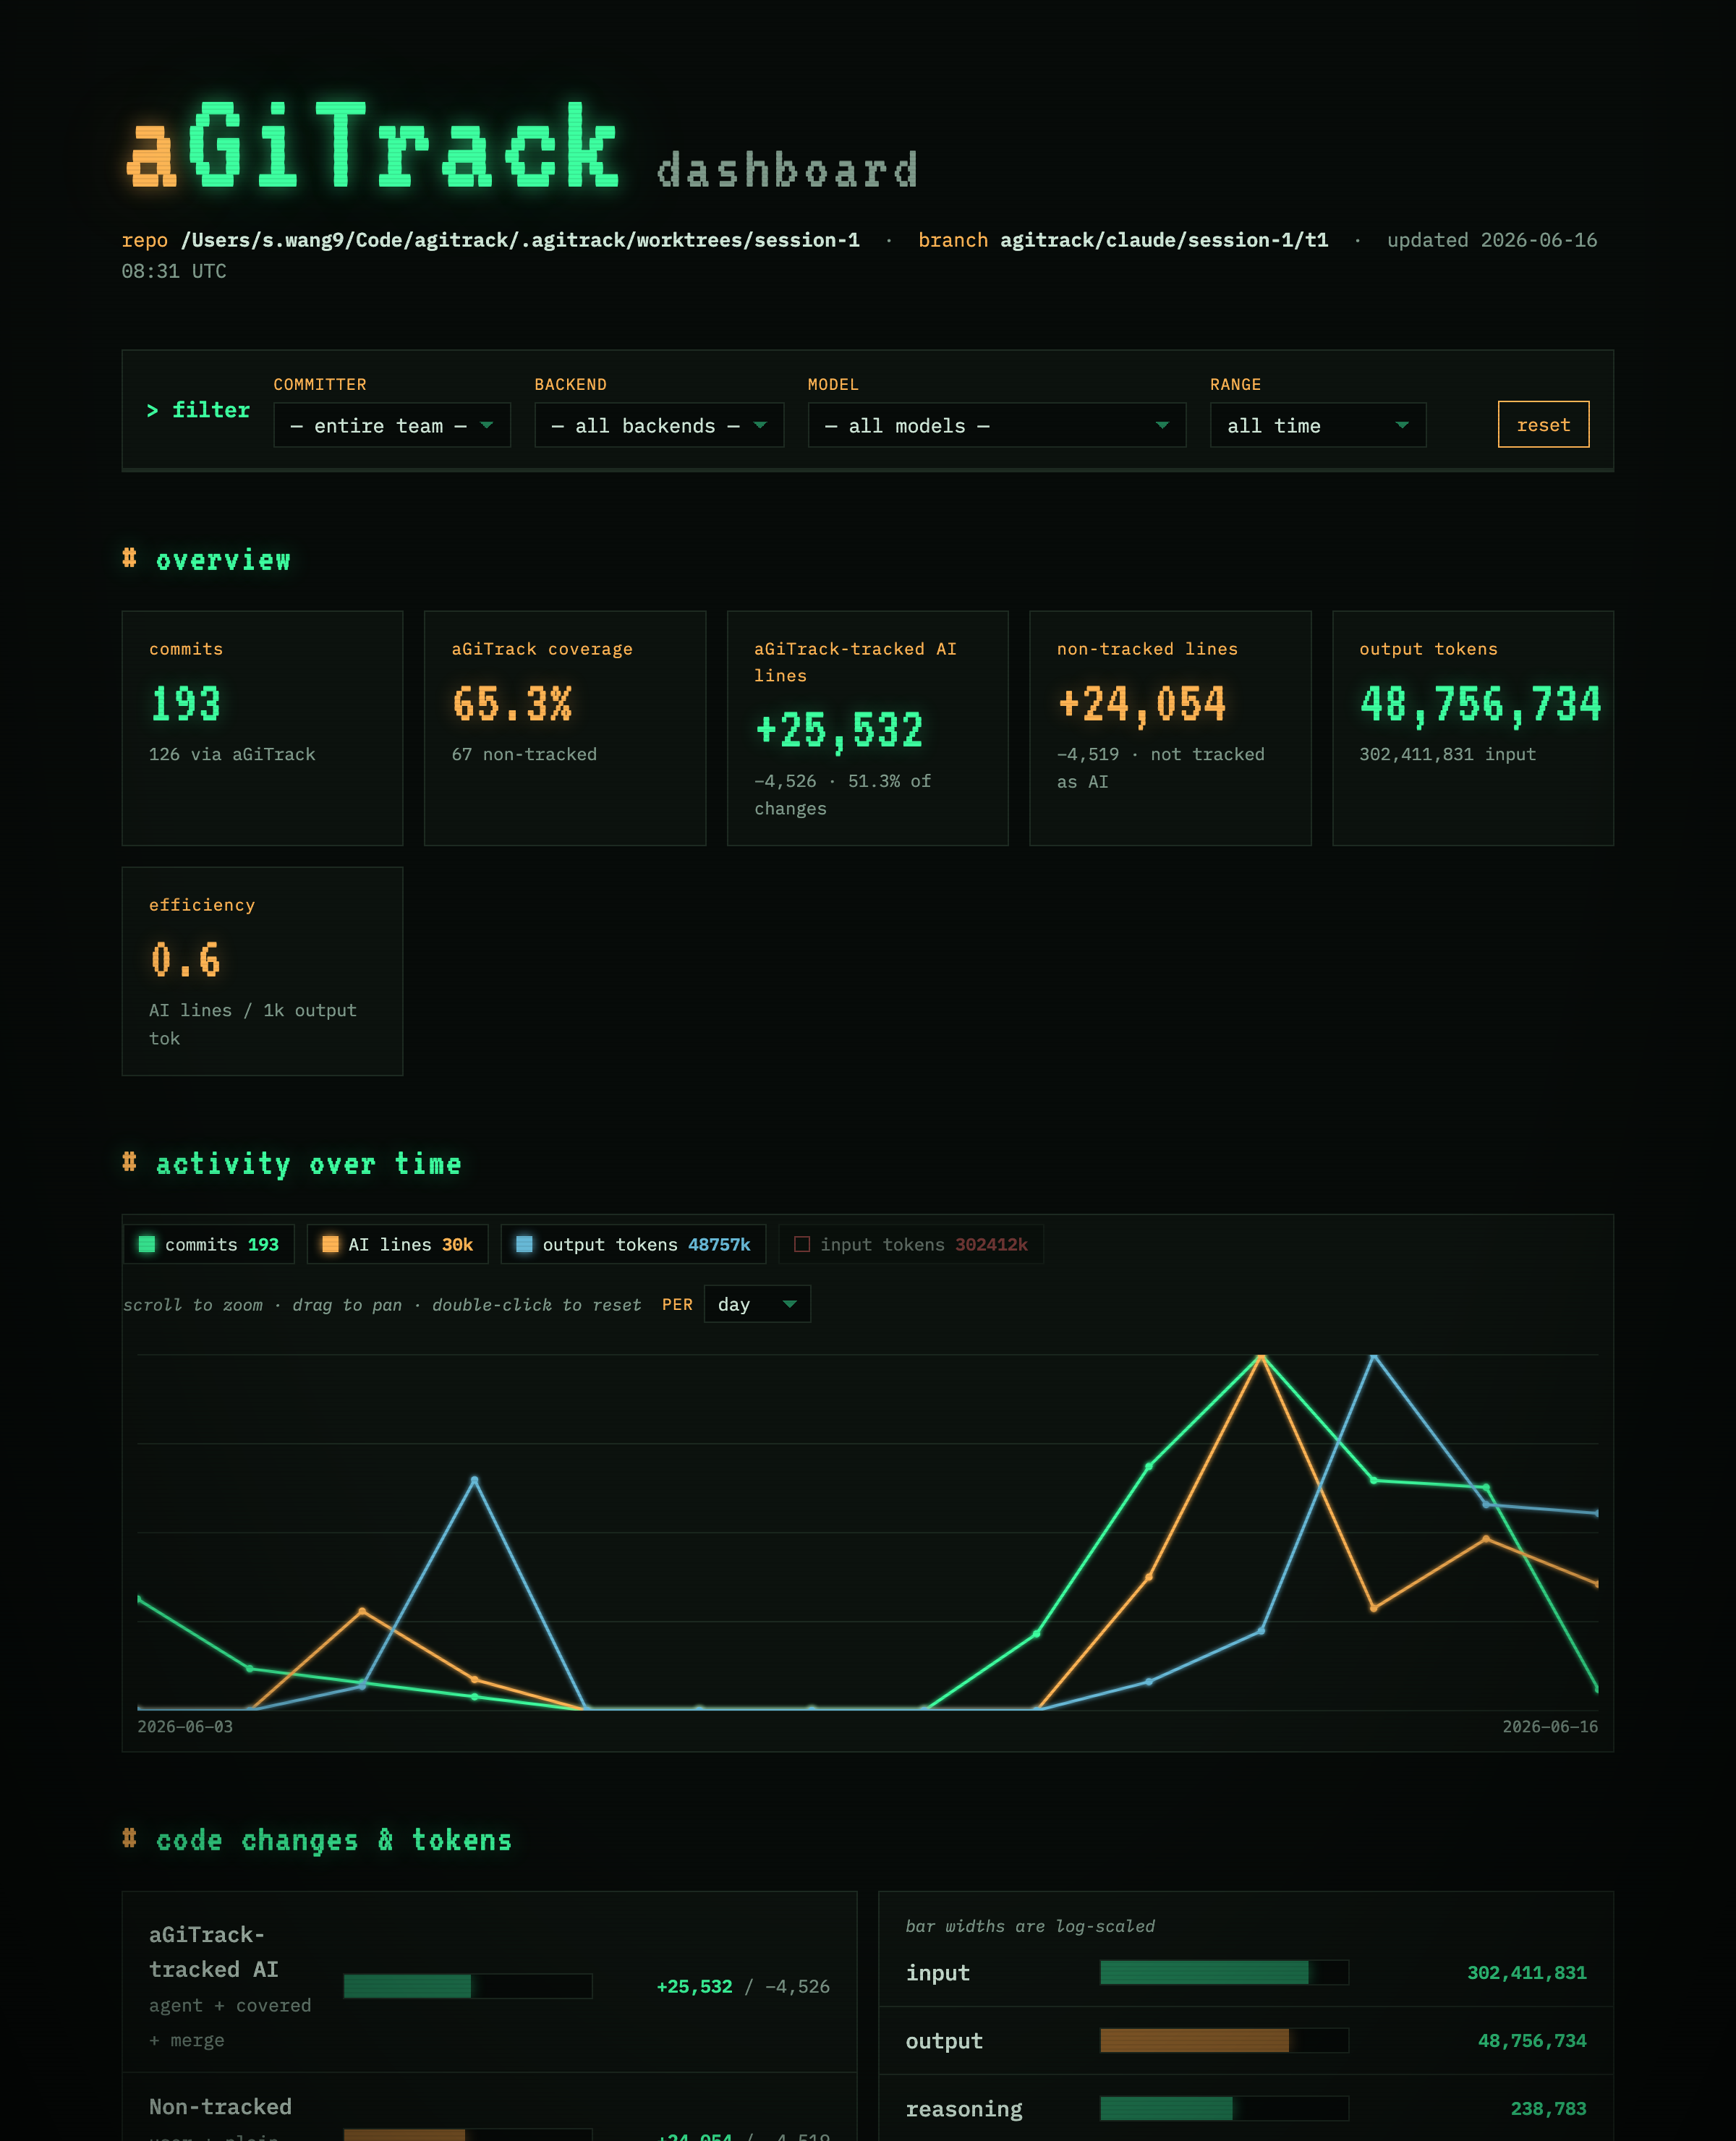
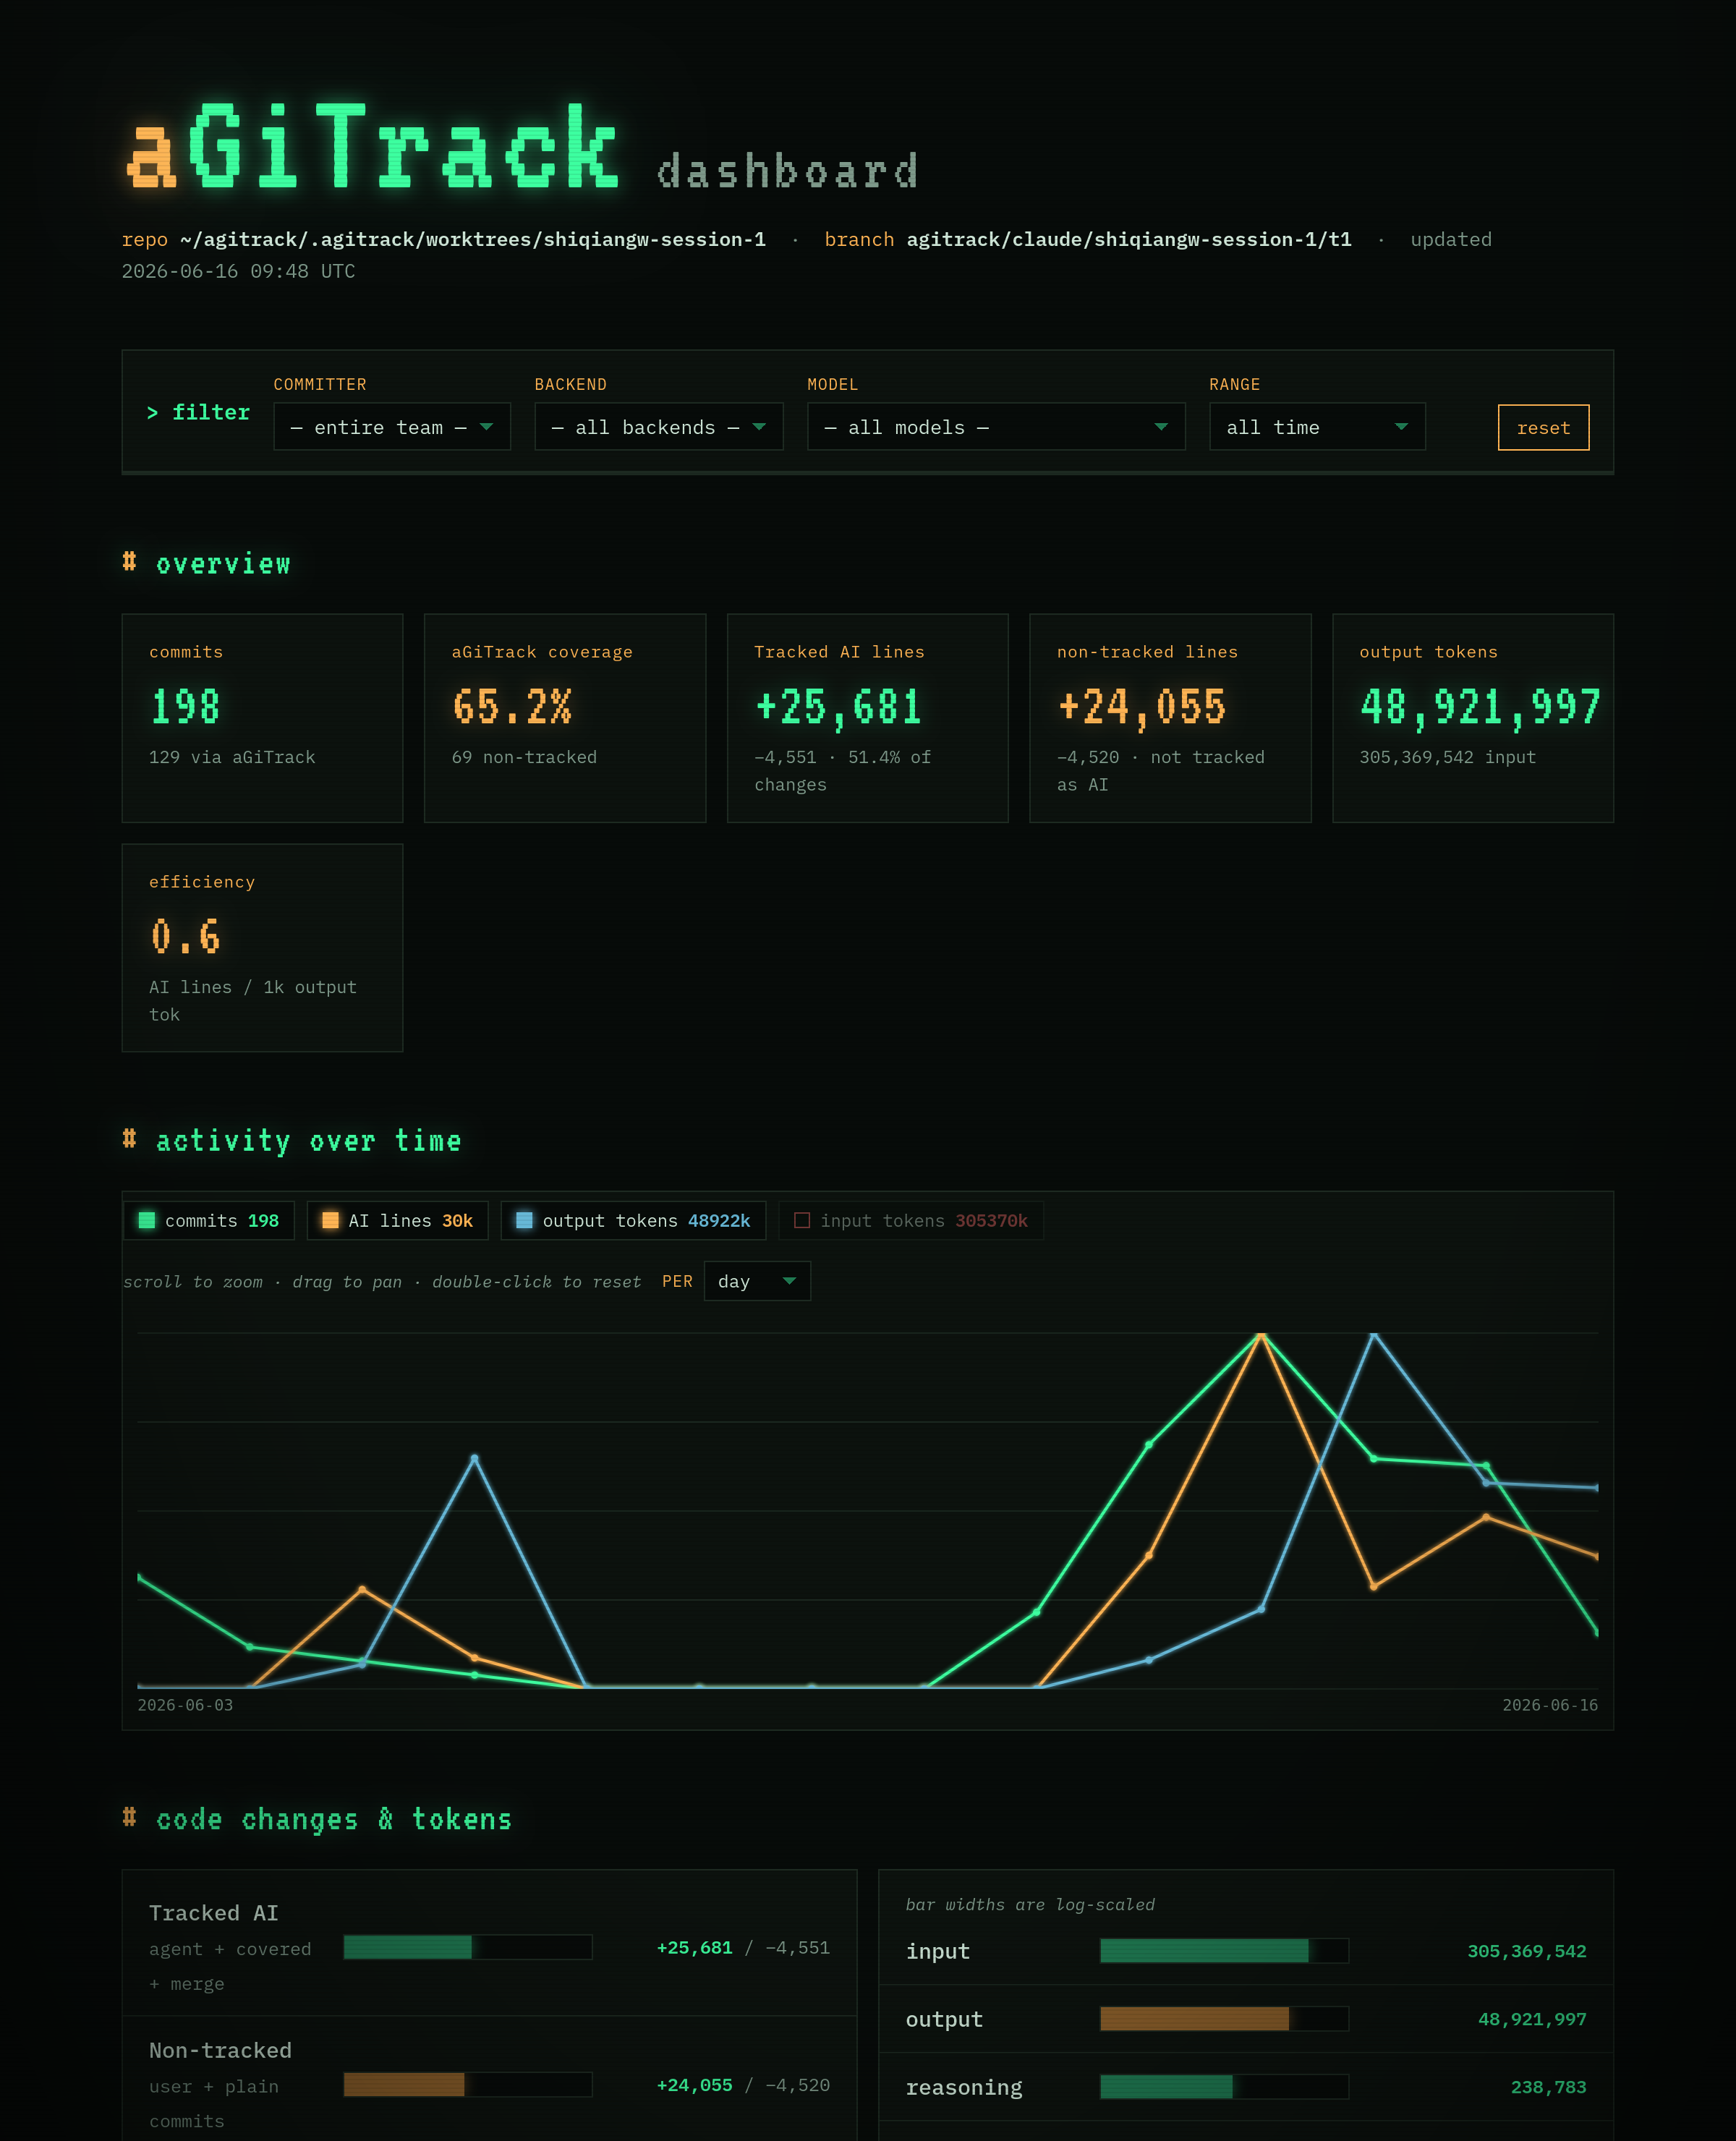
<aGiTrack> Dashboard adds branch switcher and ~-abbreviated repo paths
The dashboard's repo path now collapses a leading home-directory prefix
to `~` via a new `_abbreviate_home()` helper in
`agitrack/metrics/collect.py`, applied to `dash.repo` in
`build_dashboard` so the header shows `~/agitrack/...` rather than the
absolute home path (avoiding leaking the home directory in the public
intro screenshot); commit-message bodies may still hold full paths but
stay hidden in collapsed `<details>`. The cumbersome "aGiTrack-tracked
AI" label was shortened to "Tracked AI" in both the summary card and
line-breakdown row in `web.py`. `docs/images/dashboard-v2.png` was
regenerated at 2400×2960 reflecting both changes (Firefox headless with
a `zoom:2` trick, since no Chrome is available in this environment).

The larger addition is a per-branch view: a branch `<select>` now leads
the dashboard filter row, driving both statistics and commit logs. In
`collect.py`, `Dashboard.branches` enumerates local branches (the viewed
 branch first) and `build_dashboard(repo, ref)` reports the requested
ref as the shown branch. In `server.py`, the `/data`, `/log`, and `/`
endpoints accept a `branch=` param resolved through `_ref()`, which
validates against `repo.list_branches()` so an unknown or injected value
 safely falls back to `HEAD` and is never interpolated into `git log`
(the key security consideration). In `web.py`, switching branches
updates the header label live, sends the branch via `qs()`, and clears
[…]

diff --git a/tests/test_dashboard.py b/tests/test_dashboard.py
@@ -784,6 +784,28 @@ def test_timeseries_fills_empty_periods_with_zero():
     assert ts["commits"] == [1, 0, 0, 1]
 
 
+def test_dashboard_repo_path_abbreviates_home(tmp_path, monkeypatch):
+    # A repo under the home directory is shown with ``~`` so the public dashboard
+    # screenshot never leaks an absolute home path. Build the repo before patching
+    # HOME so git still finds the real global identity for the seed commits.
+    home = tmp_path / "home"
+    repo_dir = home / "projects" / "demo"
+    repo_dir.parent.mkdir(parents=True)
+    repo = _demo_repo(repo_dir)
+    monkeypatch.setenv("HOME", str(home))
+
+    dash = build_dashboard(repo)
+    assert dash.repo == "~/projects/demo"
+    assert str(home) not in render_html(repo)
+
+
+def test_dashboard_repo_path_outside_home_is_unchanged(tmp_path, monkeypatch):
+    repo = _demo_repo(tmp_path / "work")
+    monkeypatch.setenv("HOME", str(tmp_path / "elsewhere"))
+    dash = build_dashboard(repo)
+    assert dash.repo == str(repo.repo)
+
+
 def test_aggregates_payload_reports_full_history_span(tmp_path):
     from agitrack.metrics.web import aggregates_payload
 
@@ -963,6 +985,60 @@ def test_dashboard_server_serves_aggregates_and_paginated_log(tmp_path):
         query = urllib.parse.urlencode({"author": data["options"]["committers"][0]})
         only_me = json.loads(_get(base + "/data?" + query))
         assert only_me["agg"]["total"] <= refreshed["agg"]["total"]
+    finally:
+        server.shutdown()
+        server.server_close()
+        thread.join(timeout=5)
+
+
+def _add_feature_branch(repo: GitRepo) -> str:
+    """Branch off the current tip and add one extra agent commit on ``feature``,
+    leaving the original branch checked out. Returns the original branch name."""
+    main = repo.current_branch()
+    repo.create_branch("feature", main)
+    repo.switch("feature")
+    _write_lines(repo, "feat.txt", 5)
+    repo.commit(_agent_message("feature work", tokens=_TOKENS))
+    repo.switch(main)
+    return main
+
+
+def test_build_dashboard_for_explicit_branch_reports_that_branch(tmp_path):
+    repo = _demo_repo(tmp_path)  # 7 commits on the default branch
+    main = _add_feature_branch(repo)
+
+    dash = build_dashboard(repo, "feature")
+    assert dash.branch == "feature"
+    assert dash.total_commits == 8  # the default branch's 7 + the feature commit
+    # The selector lists every branch, with the viewed one first.
+    assert dash.branches[0] == "feature"
+    assert main in dash.branches
+
+    # The default (HEAD) view still reports the current branch and its history.
+    head = build_dashboard(repo)
+    assert head.branch == main and head.total_commits == 7
+    assert set(head.branches) == {main, "feature"}
+
+
+def test_dashboard_server_switches_branches_for_per_branch_views(tmp_path):
+    repo = _demo_repo(tmp_path)
+    main = _add_feature_branch(repo)
+    server, thread, base = _serve(repo)
+    try:
+        # The default view is the checked-out branch; the picker offers every branch.
+        data = json.loads(_get(base + "/data"))
+        assert data["branch"] == main and data["agg"]["total"] == 7
+        assert set(data["options"]["branches"]) == {main, "feature"}
+
+        # ?branch=<name> re-scopes both the aggregates and the commit log to that ref.
+        feat = json.loads(_get(base + "/data?branch=feature"))
+        assert feat["branch"] == "feature" and feat["agg"]["total"] == 8
+        flog = json.loads(_get(base + "/log?branch=feature"))
+        assert any("feature work" in e["subject"] for e in flog["entries"])
+
+        # An unknown or injected ref never reaches git — it falls back to HEAD.
+        bogus = json.loads(_get(base + "/data?branch=" + urllib.parse.quote("main; rm -rf /")))
+        assert bogus["branch"] == main and bogus["agg"]["total"] == 7
     finally:
         server.shutdown()
         server.server_close()

diff --git a/agitrack/metrics/web.py b/agitrack/metrics/web.py
@@ -352,6 +352,7 @@ def _options(dash: Dashboard) -> dict:
         "committers": sorted(c for c in committers if c),
         "backends": sorted(backends),
         "models": sorted(models),
+        "branches": dash.branches,
     }
 
 
@@ -374,6 +375,7 @@ def aggregates_payload(
     dated = [s.timestamp for s in dash.stats if s.timestamp]
     return {
         "head": dash.stats[-1].sha if dash.stats else "",
+        "branch": dash.branch,
         "generated_at": datetime.now(timezone.utc).strftime("%Y-%m-%d %H:%M UTC"),
         "options": _options(dash),
         "span": {"from": min(dated), "to": max(dated)} if dated else {"from": 0, "to": 0},
@@ -686,11 +688,12 @@ footer{margin-top:46px;padding-top:22px;border-top:1px dashed var(--line);color:
 <div class="wrap">
   <header>
     <div class="brand"><span class="a">a</span>GiTrack<span class="sub">&nbsp;dashboard</span></div>
-    <div class="meta"><span class="tag">repo</span> <b>__REPO__</b> &nbsp;·&nbsp; <span class="tag">branch</span> <b>__BRANCH__</b> &nbsp;·&nbsp; <span id="genat"></span></div>
+    <div class="meta"><span class="tag">repo</span> <b>__REPO__</b> &nbsp;·&nbsp; <span class="tag">branch</span> <b id="branchlabel">__BRANCH__</b> &nbsp;·&nbsp; <span id="genat"></span></div>
   </header>
 
   <div class="controls">
     <span class="prompt">&gt; filter</span>
+    <div class="field"><label for="f-branch">branch</label><select id="f-branch" title="View statistics and the commit log for a single branch"></select></div>
     <div class="field"><label for="f-author">committer</label><select id="f-author"></select></div>
     <div class="field"><label for="f-backend">backend</label><select id="f-backend"></select></div>
     <div class="field"><label for="f-model">model</label><select id="f-model"></select></div>
@@ -802,7 +805,9 @@ const TOKEN_ORDER = [["input","input"],["output","output"],["reasoning","reasoni
   ["summary_input","summarizer input"],["summary_output","summarizer output"]];
 const REFRESH_MS = 30000, DAY = 86400;
 
-const state = {author:"", backend:"", model:"", fromTs:0, toTs:0, granularity:(INIT.timeseries&&INIT.timeseries.granularity)||"day"};
+// DEFAULT_BRANCH is the branch the page first loaded for; "reset" returns to it.
+const DEFAULT_BRANCH = INIT.branch || "";
+const state = {branch:DEFAULT_BRANCH, author:"", backend:"", model:"", fromTs:0, toTs:0, granularity:(INIT.timeseries&&INIT.timeseries.granularity)||"day"};
 // Only a page served over http(s) has a backend to reach; a file:// snapshot has
 // none, so it must never raise a false "server unreachable" alarm.
 const LIVE = location.protocol.indexOf("http") === 0;
@@ -815,6 +820,8 @@ function setOffline(on){ const el=$("neterror"); if(el) el.hidden = !on; }
 
 function qs(extra){
   const p = new URLSearchParams();
+  // A non-default branch rescopes the whole view (stats + log) server-side.
+  if(state.branch && state.branch !== DEFAULT_BRANCH) p.set("branch", state.branch);
   if(state.author) p.set("author", state.author);
   if(state.backend) p.set("backend", state.backend);
   if(state.model) p.set("model", state.model);
@@ -828,6 +835,9 @@ async function loadAgg(){
   try{ const r = await fetch("data?"+qs(), {cache:"no-store"}); if(r.ok){
     const d = await r.json(); HEAD=d.head; AGG=d.agg; OPTIONS=d.options; GENERATED=d.generated_at;
     TS = d.timeseries || {t:[]}; if(d.span) SPAN = d.span; if(d.shared_sessions) SHARED = d.shared_sessions;
+    // The server reports which branch it actually served (e.g. it fell back to the
+    // default if the requested one vanished); reflect that in the state + header.
+    if(d.branch !== undefined){ state.branch = d.branch; setBranchLabel(d.branch); }
     setOffline(false); return true; } }
   catch(e){ if(LIVE) setOffline(true); }  // network failure ⇒ server unreachable
   return false;
@@ -902,7 +912,7 @@ function renderAgg(){
   $("cards").innerHTML = [
     card("commits", fmt(total), `${fmt(tracked)} via aGiTrack`),
     card("aGiTrack coverage", pct(tracked,total), `${fmt(total-tracked)} non-tracked`, true),
-    card("aGiTrack-tracked AI lines", "+"+fmt(ai.ins), `−${fmt(ai.del)} · ${pct(ai.total, allLines)} of changes`),
+    card("Tracked AI lines", "+"+fmt(ai.ins), `−${fmt(ai.del)} · ${pct(ai.total, allLines)} of changes`),
     card("non-tracked lines", "+"+fmt(nt.ins), `−${fmt(nt.del)} · not tracked as AI`, true),
     card("output tokens", fmt(tok.output||0), `${fmt(tok.input||0)} input`),
     card("efficiency", eff===null?"—":eff.toFixed(1), "AI lines / 1k output tok", true),
@@ -914,7 +924,7 @@ function renderAgg(){
       `<div class="num"><b>+${fmt(v.ins)}</b> / −${fmt(v.del)}</div></div>`;
   const kc = (label, key, tip) => `<span class="kc" title="${tip}">${label} <b>${kinds(key)}</b></span>`;
   $("lines").innerHTML =
-    lineRow("aGiTrack-tracked AI", "agent + covered + merge", ai, false) +
+    lineRow("Tracked AI", "agent + covered + merge", ai, false) +
     lineRow("Non-tracked", "user + plain commits", nt, true) +
     `<div class="kindcounts"><span class="klabel">commits by kind:</span> `+
       kc("agent", "agent", "Commits aGiTrack made from the agent's work") + " · " +
@@ -1202,7 +1212,20 @@ function fillSelect(id, values, allLabel, keep){
     values.map(v => `<option value="${esc(v)}">${esc(v)}</option>`).join("");
   sel.value = (keep && values.includes(keep)) ? keep : "";
 }
+function setBranchLabel(name){ const el=$("branchlabel"); if(el) el.textContent = name || "—"; }
+// The branch picker is a view switch, not a subset filter, so it has no "all"
+// option — exactly one branch is shown at a time. A file:// snapshot can't reach
+// the server to re-scope, so it's disabled there (only its own branch is shown).
+function fillBranches(){
+  const sel = $("f-branch"), branches = OPTIONS.branches || [];
+  const list = branches.length ? branches : (state.branch ? [state.branch] : []);
+  sel.innerHTML = list.map(v => `<option value="${esc(v)}">${esc(v)}</option>`).join("");
+  sel.value = list.includes(state.branch) ? state.branch : (list[0] || "");
+  state.branch = sel.value;
+  sel.disabled = !LIVE || list.length <= 1;
+}
 function syncFilters(){
+  fillBranches();
   fillSelect("f-author", OPTIONS.committers, "— entire team —", state.author);
   fillSelect("f-backend", OPTIONS.backends, "— all backends —", state.backend);
   fillSelect("f-model", OPTIONS.models, "— all models —", state.model);
@@ -1268,6 +1291,9 @@ function init(){
   // Show the real range from the first paint: bound the pickers to the history
   // span and fill from/to with it (default period is "all time" = full history).
   setDateBounds(); applyPeriod();
+  // Switching branch re-scopes everything; the old branch's committer/backend/
+  // model picks may not exist on the new one, so clear them for a clean view.
+  $("f-branch").onchange = e => { state.branch = e.target.value; state.author=state.backend=state.model=""; applyFilters(); };
   $("f-author").onchange = e => { state.author = e.target.value; applyFilters(); };
   $("f-backend").onchange = e => { state.backend = e.target.value; applyFilters(); };
   $("f-model").onchange = e => { state.model = e.target.value; applyFilters(); };
@@ -1285,6 +1311,7 @@ function init(){
   });
   $("reset").onclick = () => {
     state.author=state.backend=state.model="";
+    state.branch=DEFAULT_BRANCH;  // back to the branch the page loaded for
     $("f-period").value=""; showDateRange(false); applyPeriod();  // back to all time → full span
     applyFilters();
   };

diff --git a/agitrack/metrics/collect.py b/agitrack/metrics/collect.py
@@ -38,6 +38,7 @@ import re
 from collections import Counter, defaultdict
 from dataclasses import dataclass, field
 from functools import cached_property
+from pathlib import Path
 
 from agitrack.commits import METADATA_HEADER
 from agitrack.git import GitRepo
@@ -172,11 +173,12 @@ class LoopFinding:
 @dataclass
 class Dashboard:
     repo: str
-    branch: str
+    branch: str  # the ref this dashboard was built for (the current branch by default)
     stats: list[CommitStat]  # oldest first
     loops: list[LoopFinding]
     sha_logins: dict[str, str] = field(default_factory=dict)  # commit SHA → GitHub login (best-effort)
     commit_base: str = ""  # GitHub commit URL prefix, or "" when no GitHub remote
+    branches: list[str] = field(default_factory=list)  # every local branch, for the per-branch view selector
 
     # --- derived aggregates -------------------------------------------------
 
@@ -535,18 +537,37 @@ def _parents(repo: GitRepo, ref: str) -> dict[str, list[str]]:
     return parents
 
 
+def _abbreviate_home(path: str) -> str:
+    """Replace a leading home-directory prefix with ``~`` so the dashboard (and
+    its public screenshot) never leaks an absolute home path."""
+    try:
+        home = Path.home()
+        rel = Path(path).relative_to(home)
+    except (ValueError, RuntimeError, OSError):
+        return path
+    return "~" if str(rel) == "." else f"~/{rel.as_posix()}"
+
+
 def build_dashboard(repo: GitRepo, ref: str = "HEAD", *, sha_logins: dict[str, str] | None = None) -> Dashboard:
     from agitrack.metrics.github import commit_url_base
 
     stats = collect_commit_stats(repo, ref)
-    branch = repo.current_branch()
+    # The branch the dashboard *shows*: the explicit ref when one is requested,
+    # otherwise whatever HEAD currently points at.
+    branch = repo.current_branch() if ref == "HEAD" else ref
+    # Every local branch feeds the per-branch view selector. Keep the shown branch
+    # in the list (and first) even if it's detached/HEAD so it's always selectable.
+    branches = repo.list_branches()
+    if branch and branch != "HEAD":
+        branches = [branch, *(b for b in branches if b != branch)]
     return Dashboard(
-        repo=str(repo.repo),
+        repo=_abbreviate_home(str(repo.repo)),
         branch=branch,
         stats=stats,
         loops=_detect_loops(stats),
         sha_logins=sha_logins or {},
         commit_base=commit_url_base(repo),
+        branches=branches,
     )
 
 

diff --git a/agitrack/metrics/server.py b/agitrack/metrics/server.py
@@ -44,12 +44,13 @@ class _DashboardHandler(http.server.BaseHTTPRequestHandler):
             query = urllib.parse.parse_qs(parsed.query)
             author, backend, model = _str(query, "author"), _str(query, "backend"), _str(query, "model")
             frm, to = _int(query, "from", 0), _int(query, "to", 0)
+            ref = self._ref(_str(query, "branch"))
             if parsed.path in ("/", "/index.html"):
-                html = format_html(self._dashboard(), shared_sessions=shared_sessions_for(self.repo))
+                html = format_html(self._dashboard(ref), shared_sessions=shared_sessions_for(self.repo))
                 self._respond("text/html; charset=utf-8", html.encode("utf-8"))
             elif parsed.path == "/data":
                 payload = aggregates_payload(
-                    self._dashboard(),
+                    self._dashboard(ref),
                     author=author,
                     backend=backend,
                     model=model,
@@ -61,7 +62,7 @@ class _DashboardHandler(http.server.BaseHTTPRequestHandler):
                 self._respond("application/json", self._json(payload))
             elif parsed.path == "/log":
                 page = log_page(
-                    self._dashboard(),
+                    self._dashboard(ref),
                     author=author,
                     backend=backend,
                     model=model,
@@ -83,11 +84,17 @@ class _DashboardHandler(http.server.BaseHTTPRequestHandler):
     def _json(payload: dict) -> bytes:
         return json.dumps(payload).encode("utf-8")
 
-    def _dashboard(self) -> Dashboard:
+    def _ref(self, branch: str) -> str:
+        # Only an actual local branch may be viewed: an unchecked value would be
+        # interpolated straight into ``git log <ref>``, so anything not in the
+        # branch list (an option string, a bogus name, "") falls back to HEAD.
+        return branch if branch and branch in self.repo.list_branches() else "HEAD"
+
+    def _dashboard(self, ref: str = "HEAD") -> Dashboard:
         # cached_logins never blocks: it returns the cached GitHub identities (or {}
         # when cold) and refreshes them in the background, so the first paint and every
         # poll are fast. Resolved logins appear on a later poll. {} when gh is absent.
-        return build_dashboard(self.repo, sha_logins=cached_logins(self.repo))
+        return build_dashboard(self.repo, ref, sha_logins=cached_logins(self.repo))
 
     def _respond(self, content_type: str, body: bytes) -> None:
         self.send_response(200)